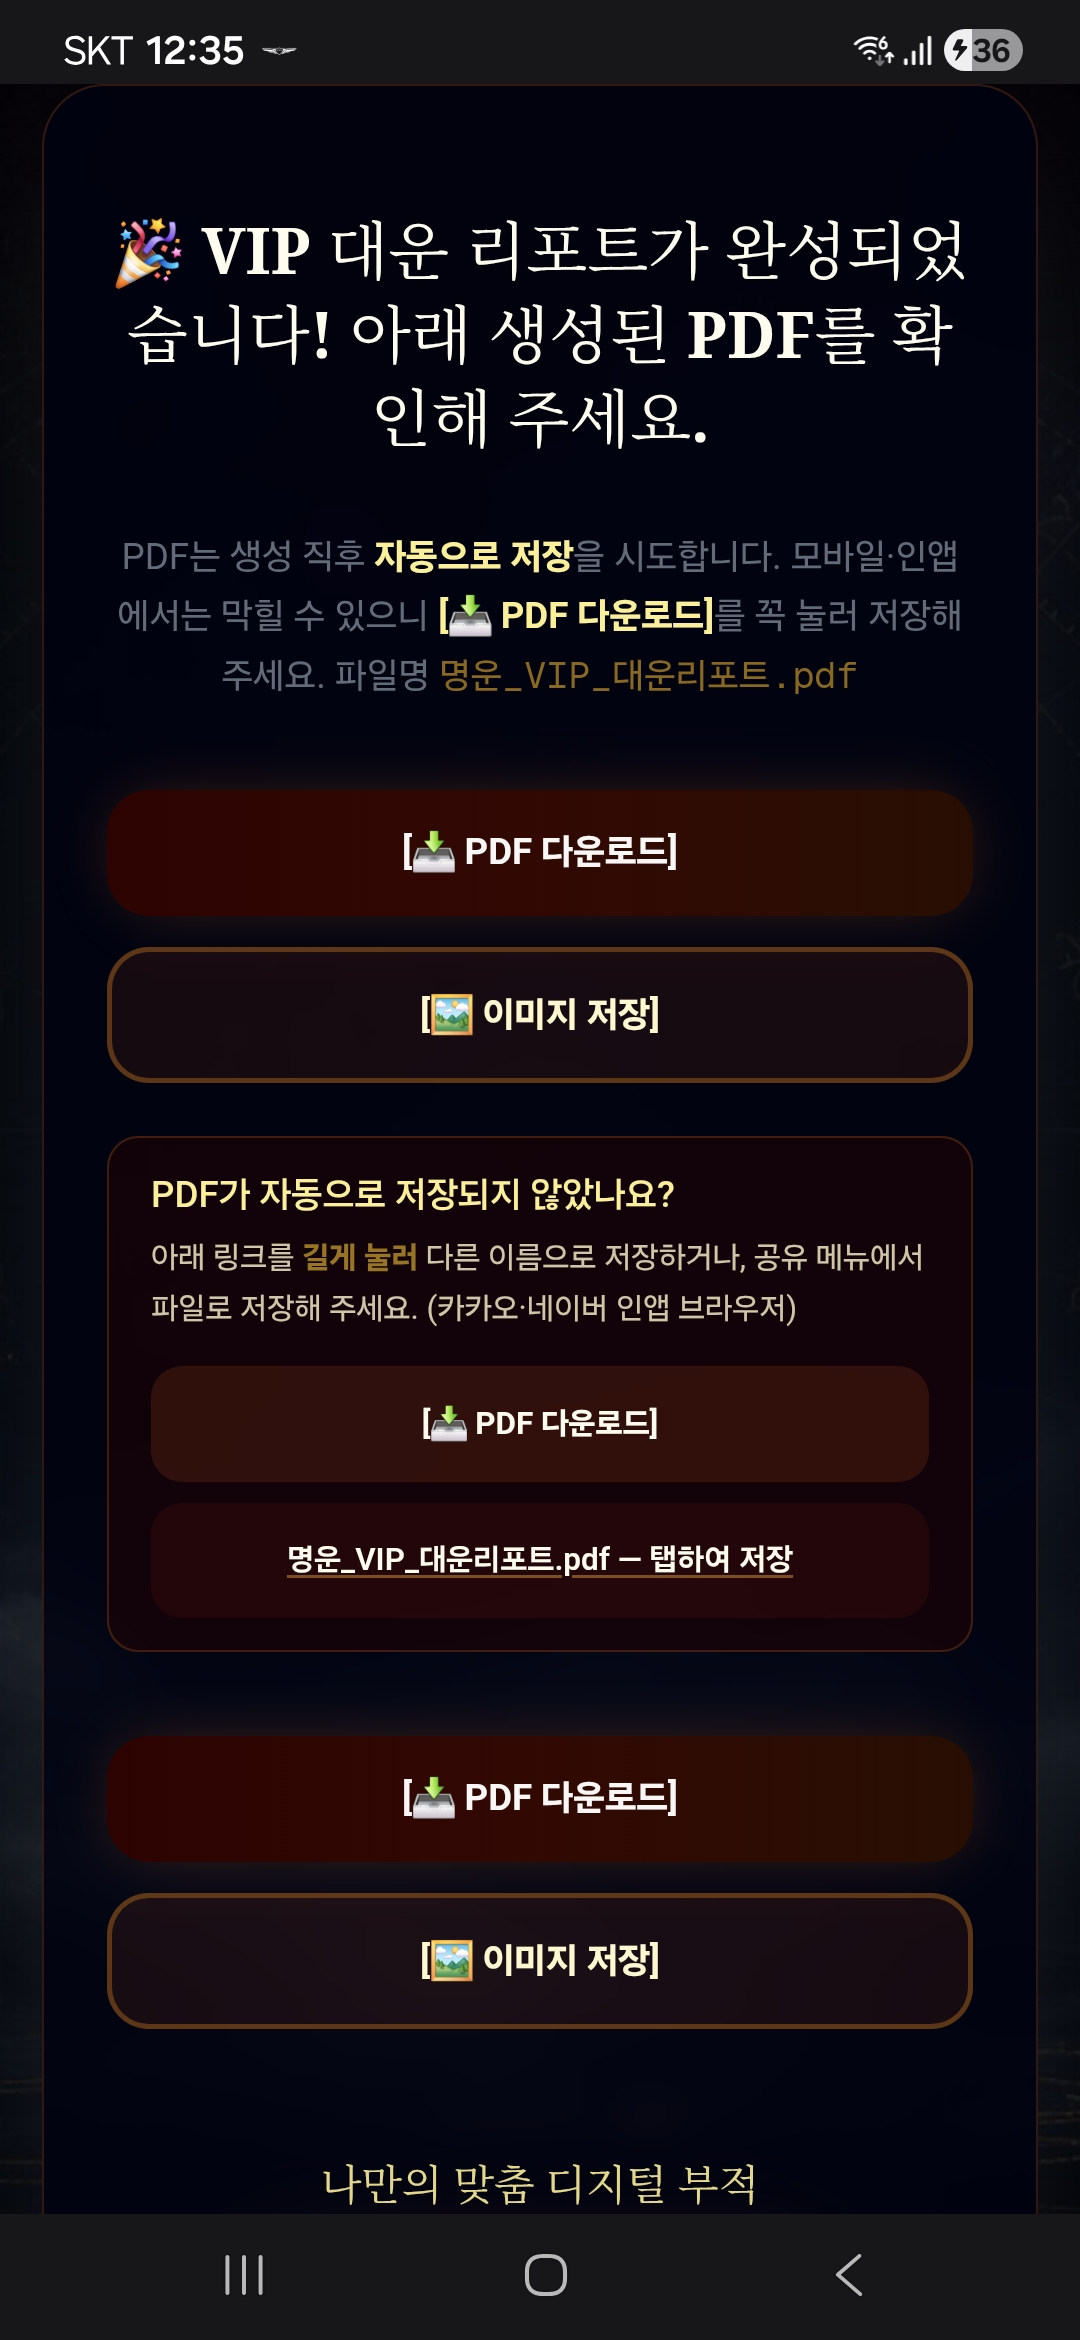
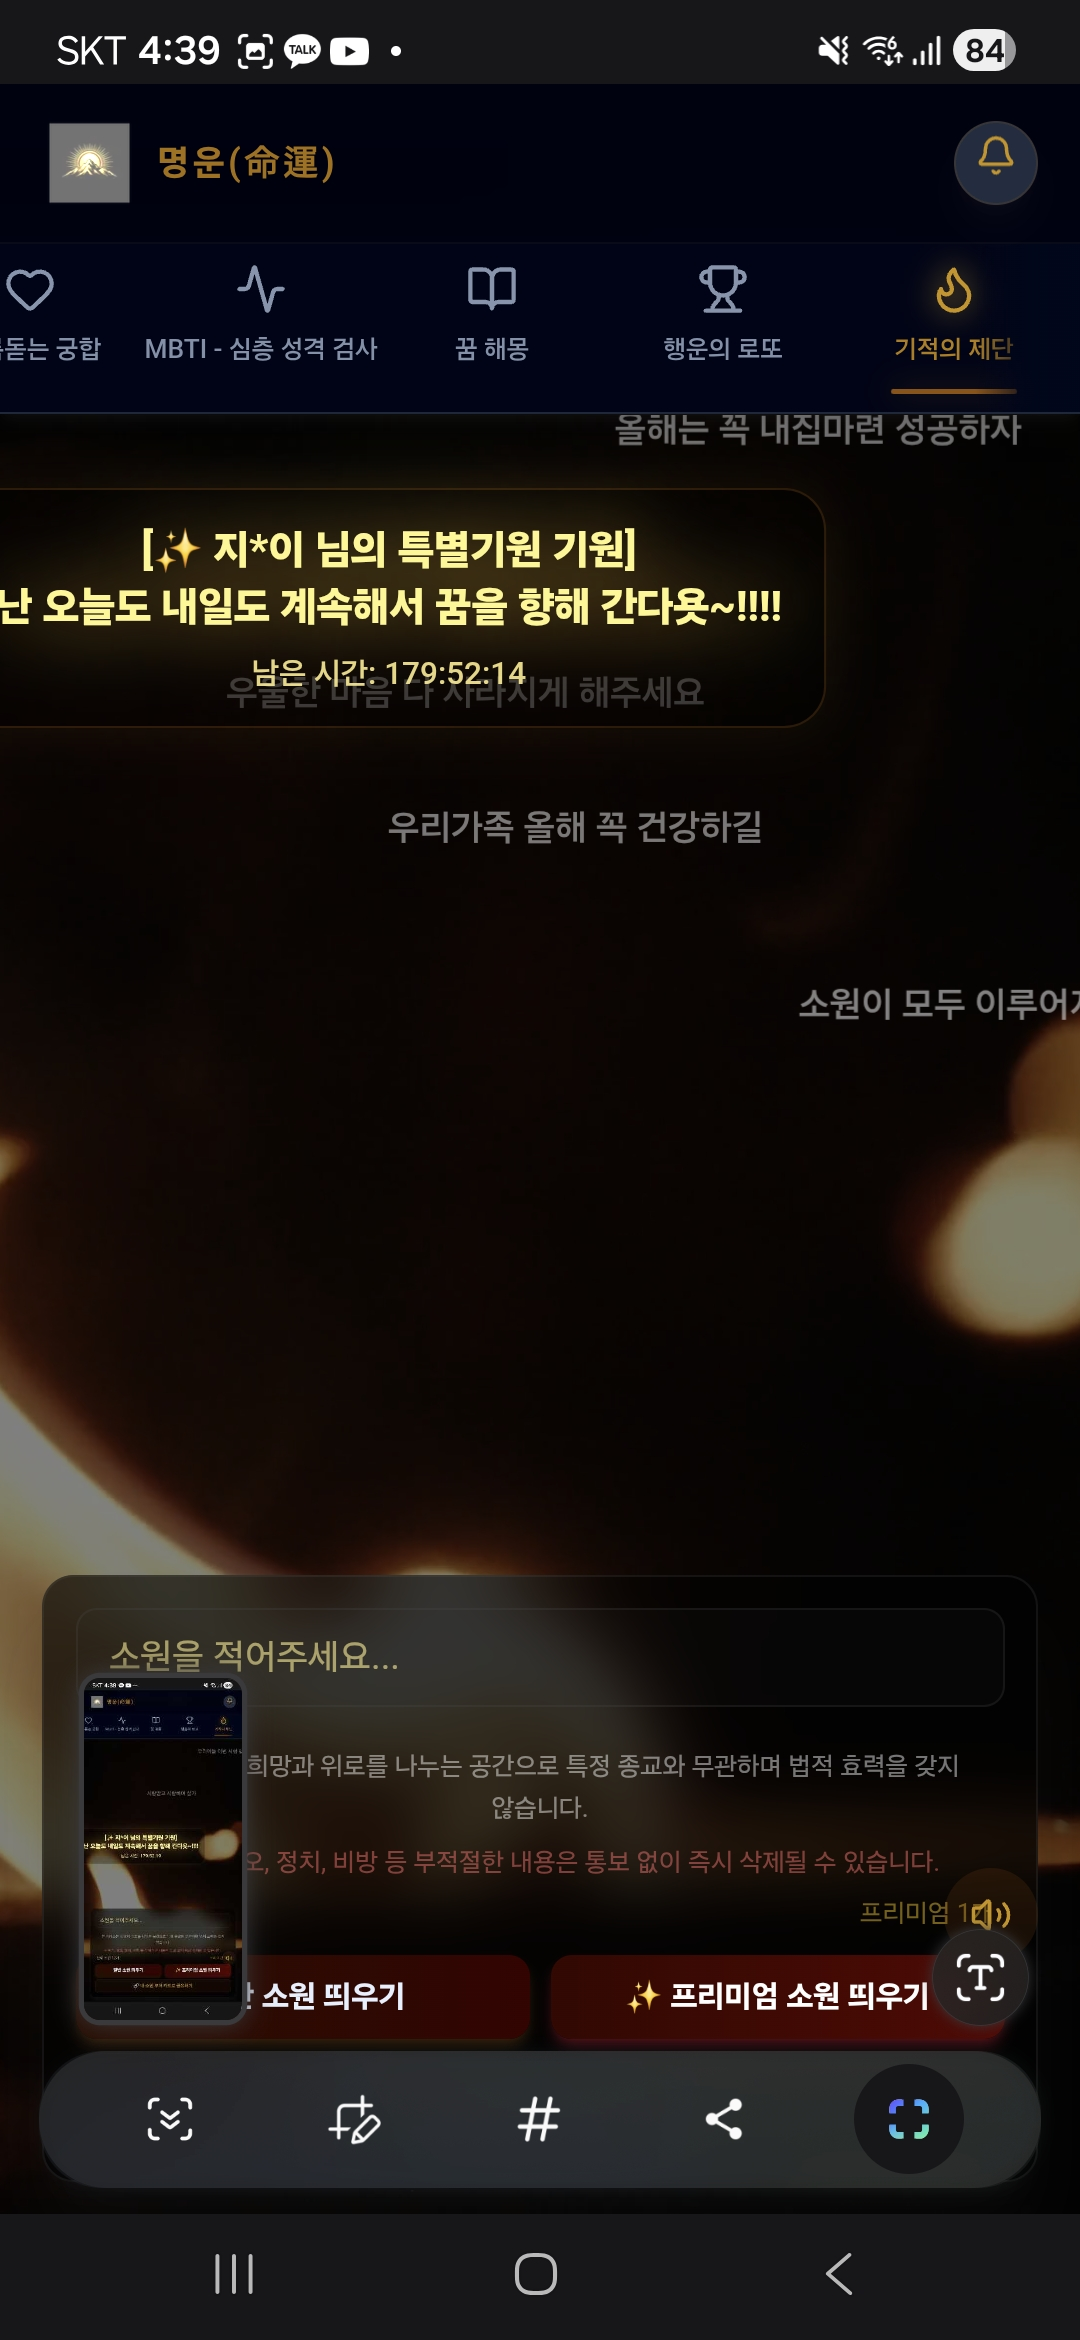
feat: 기적의 제단 푸터 수정

diff --git a/app/tools/page.tsx b/app/tools/page.tsx
@@ -1250,6 +1250,14 @@ function DreamTab({ isVisible, onNavigate }: { isVisible: boolean, onNavigate: (
   );
 }
 
+/** 제단 탭 하단 푸터 — GlobalSiteFooter와 동일 약관/사업자 문구 */
+const ALTAR_FOOTER_TERMS =
+  "제1조 (목적)\n본 약관은 서비스의 이용조건 및 절차, 이용자와 회사의 권리, 의무, 책임사항을 규정함을 목적으로 합니다.\n\n제2조 (서비스의 성격)\n본 서비스에서 제공하는 모든 결과는 통계적, 학술적 해석에 기반하며 절대적인 사실이나 미래를 보장하지 않습니다.\n\n제3조 (서비스 제공 시기)\n본 서비스에서 제공하는 모든 유료 서비스(디지털 콘텐츠)는 결제 완료 후 즉시 이용 가능합니다.";
+const ALTAR_FOOTER_PRIVACY =
+  "1. 수집하는 개인정보 항목\n회사는 회원가입 없이 서비스를 제공하며, 사주 분석을 위해 입력하신 생년월일, 성별, 이름 등은 서버에 영구 저장되지 않고 분석 즉시 폐기됩니다.\n\n2. 쿠키의 사용\n서비스 편의를 위해 기기 내부에 일부 설정(예: 프리미엄 해제 상태)이 임시 저장될 수 있습니다.";
+const ALTAR_FOOTER_REFUND =
+  "[디지털 콘텐츠 환불 규정 안내]\n\n본 서비스에서 제공되는 모든 유료 서비스는 '디지털 콘텐츠'에 해당하며, 관련 법령에 의거하여 다음과 같이 환불 정책을 운영합니다.\n\n1. 환불 기준 (청약철회)\n- 이용권을 결제하였으나 실제 서비스를 전혀 이용하지 않은 경우(결과 열람 전), 결제일로부터 7일 이내에 고객센터를 통해 100% 환불을 요청하실 수 있습니다.\n\n2. 시스템 오류 및 서비스 장애\n- 결제는 정상적으로 완료되었으나 시스템 오류로 인해 결과 화면을 전혀 열람하지 못한 경우, 고객센터 확인을 거쳐 즉시 100% 환불 또는 서비스 재제공 처리를 해드립니다.\n\n3. 환불 제한 사항\n- 전자상거래법 제17조 제2항 제5호에 따라, 소비자의 사용 또는 일부 소비로 재화 등의 가치가 현저히 감소한 경우(예: 운세/관상/번호 추출 결과를 이미 열람한 경우)에는 청약철회가 제한됩니다.";
+
 function AltarTab({ isVisible }: { isVisible: boolean }) {
   // 🚀 [추가] 촛불 애니메이션 및 사운드 상태 (기존 432Hz BGM과 충돌하지 않음)
   const [isCandleOn, setIsCandleOn] = useState(false);
@@ -1327,6 +1335,8 @@ function AltarTab({ isVisible }: { isVisible: boolean }) {
   const [premiumNameDisplay, setPremiumNameDisplay] = useState<PremiumNameDisplay>("anonymous");
   const [premiumNameInput, setPremiumNameInput] = useState("");
   const [premiumWishText, setPremiumWishText] = useState("");
+  const [altarFooterPolicy, setAltarFooterPolicy] = useState<"terms" | "privacy" | "refund" | null>(null);
+  const [altarFooterCompany, setAltarFooterCompany] = useState(false);
   const [countdownNow, setCountdownNow] = useState(Date.now());
   const audioRef = useRef<HTMLAudioElement>(null);
 
@@ -1820,6 +1830,26 @@ function AltarTab({ isVisible }: { isVisible: boolean }) {
     setPremiumWishText("");
     setPremiumNameInput("");
   };
+
+  const handleAltarFooterCopyrightDoubleClick = () => {
+    if (typeof window === "undefined") return;
+    if (localStorage.getItem("MASTER_ADMIN") === "true") {
+      if (confirm("현재 운영자 모드입니다. 종료할까요?")) {
+        localStorage.removeItem("MASTER_ADMIN");
+        alert("운영자 모드가 종료되었습니다.");
+        window.location.reload();
+      }
+      return;
+    }
+    const pwd = prompt("운영자 비밀번호를 입력하세요.");
+    if (pwd === "s1223534") {
+      localStorage.setItem("MASTER_ADMIN", "true");
+      alert("✨ 운영자 모드 활성화! 모든 유료 서비스가 프리패스됩니다.");
+      window.location.reload();
+    } else if (pwd !== null) {
+      alert("비밀번호가 일치하지 않습니다.");
+    }
+  };
   
   return (
     <div
@@ -1861,19 +1891,16 @@ function AltarTab({ isVisible }: { isVisible: boolean }) {
                 {floatingWishes.map((wish, i) => (
                   <div
                     key={`wish-${i}`}
-                    className="absolute"
+                    className="absolute max-w-[45vw]"
                     style={{
-                      /* 화면 양끝 15%~85% 사이에서만 나타나도록 제한 (짤림 방지) */
                       left: `${15 + ((i * 17 + 5) % 70)}%`,
                       top: `${30 + (i * 11 % 41)}%`,
                       transform: "translateX(-50%)",
                       animation: `float-wish-center ${10 + (i % 9)}s ease-out infinite`,
                       animationDelay: `${(i * 0.7) % 8}s`,
-                      width: "max-content",
-                      maxWidth: "85vw", /* 모바일/PC 모두 화면 폭의 85%를 넘지 않음 */
                     }}
                   >
-                    <p style={{ whiteSpace: "pre-wrap", wordBreak: "keep-all", textAlign: "center" }} className="text-sm font-medium text-white/60 px-3">
+                    <p className="mx-auto max-w-[45vw] truncate text-center text-sm font-medium text-white/60 px-1">
                       {wish}
                     </p>
                   </div>
@@ -1893,25 +1920,33 @@ function AltarTab({ isVisible }: { isVisible: boolean }) {
                   return (
                     <div
                       key={pw.id}
-                      className="absolute"
+                      className="absolute max-w-[45vw]"
                       style={{
                         left: `${leftPct}%`,
                         animation: `float-up-premium ${duration}s linear infinite`,
                         animationDelay: delay,
-                        width: "max-content",
-                        maxWidth: "90vw",
                       }}
                     >
-                      <div className="flex flex-col items-center justify-center bg-black/30 backdrop-blur-sm px-4 py-3 rounded-2xl border border-yellow-500/30 shadow-[0_0_20px_rgba(234,179,8,0.15)]">
-                        <p className={
+                      <div className="mx-auto flex max-w-[45vw] flex-col items-center justify-center overflow-hidden bg-black/30 px-4 py-3 rounded-2xl border border-yellow-500/30 shadow-[0_0_20px_rgba(234,179,8,0.15)] backdrop-blur-sm">
+                        <p
+                          className={`w-full max-w-[45vw] truncate text-center leading-snug ${
                             isTenDays
-                              ? "text-base sm:text-xl font-extrabold text-yellow-200 drop-shadow-[0_0_15px_rgba(251,191,36,0.8)] text-center break-keep leading-snug whitespace-pre-wrap"
-                              : "text-sm sm:text-lg font-bold text-yellow-300 drop-shadow-[0_0_10px_rgba(250,204,21,0.6)] text-center break-keep leading-snug whitespace-pre-wrap"
-                          }
+                              ? "text-base sm:text-xl font-extrabold text-yellow-200 drop-shadow-[0_0_15px_rgba(251,191,36,0.8)] break-keep"
+                              : "text-sm sm:text-lg font-bold text-yellow-300 drop-shadow-[0_0_10px_rgba(250,204,21,0.6)] break-keep"
+                          }`}
                         >
-                          {pw.badge}<br/>{pw.content}
+                          {pw.badge}
                         </p>
-                        <p className={isTenDays ? "mt-1.5 text-xs font-medium text-amber-200/90" : "mt-1.5 text-[11px] text-yellow-400/80"}>
+                        <p
+                          className={`mt-1 w-full max-w-[45vw] truncate text-center leading-snug ${
+                            isTenDays
+                              ? "text-base sm:text-xl font-extrabold text-yellow-200 drop-shadow-[0_0_15px_rgba(251,191,36,0.8)] break-keep"
+                              : "text-sm sm:text-lg font-bold text-yellow-300 drop-shadow-[0_0_10px_rgba(250,204,21,0.6)] break-keep"
+                          }`}
+                        >
+                          {pw.content}
+                        </p>
+                        <p className={`w-full max-w-[45vw] truncate text-center ${isTenDays ? "mt-1.5 text-xs font-medium text-amber-200/90" : "mt-1.5 text-[11px] text-yellow-400/80"}`}>
                           남은 시간: {formatCountdown(remaining)}
                         </p>
                       </div>
@@ -1933,14 +1968,6 @@ function AltarTab({ isVisible }: { isVisible: boolean }) {
               rows={1}
               className="w-full resize-none rounded-lg border border-white/20 bg-white/10 px-3 py-2 text-sm text-amber-50 placeholder-amber-200/60 focus:border-yellow-500/60 focus:outline-none focus:ring-1 focus:ring-yellow-500/40"
             />
-            <div className="mt-2 space-y-1 px-0.5 text-center">
-              <p className="text-[10px] leading-relaxed text-white/45 break-keep">
-                본 서비스는 희망과 위로를 나누는 공간으로 특정 종교와 무관하며 법적 효력을 갖지 않습니다.
-              </p>
-              <p className="text-[10px] leading-relaxed text-red-400/80 break-keep animate-pulse">
-                ※ 욕설, 혐오, 정치, 비방 등 부적절한 내용은 통보 없이 즉시 삭제될 수 있습니다.
-              </p>
-            </div>
             <div className="mt-1 flex items-center justify-between text-[10px] px-1">
               <span className="text-amber-100/70">전체 소원 {activeWishCount}개</span>
               <span className="text-yellow-300/80">프리미엄 {activePremiumCount}개</span>
@@ -1961,6 +1988,104 @@ function AltarTab({ isVisible }: { isVisible: boolean }) {
             </button>
           </div>
         </div>
+
+        <footer className="relative z-10 mt-4 w-full shrink-0 border-t border-white/10 bg-slate-950 pb-[env(safe-area-inset-bottom,0px)] text-slate-300 pointer-events-auto">
+          <div className="mx-auto max-w-5xl px-4 pb-10 pt-6 sm:px-6">
+            <p className="text-center text-[10px] leading-relaxed text-white/45">
+              본 서비스는 희망과 위로를 나누는 공간으로 특정 종교와 무관하며 법적 효력을 갖지 않습니다.
+            </p>
+            <p className="mt-3 text-center text-[10px] leading-relaxed text-red-400/80 animate-pulse break-keep">
+              ※ 욕설, 혐오, 정치, 비방 등 부적절한 내용은 통보 없이 즉시 삭제될 수 있습니다.
+            </p>
+
+            <div className="mt-6 flex flex-wrap justify-center gap-x-3 gap-y-2 text-[11px] font-medium text-white/55">
+              <button type="button" onClick={() => setAltarFooterPolicy("terms")} className="transition-colors hover:text-white">
+                이용약관
+              </button>
+              <span aria-hidden>|</span>
+              <button type="button" onClick={() => setAltarFooterPolicy("privacy")} className="transition-colors hover:text-white">
+                개인정보처리방침
+              </button>
+              <span aria-hidden>|</span>
+              <button type="button" onClick={() => setAltarFooterPolicy("refund")} className="transition-colors hover:text-white">
+                환불정책
+              </button>
+              <span aria-hidden>|</span>
+              <button
+                type="button"
+                onClick={() => setAltarFooterCompany((v) => !v)}
+                className="flex items-center gap-1 transition-colors hover:text-white"
+              >
+                사업자 정보 {altarFooterCompany ? "▲" : "▼"}
+              </button>
+            </div>
+
+            {altarFooterCompany ? (
+              <div className="mx-auto mt-6 max-w-lg space-y-1.5 border-t border-white/10 pt-6 text-[10px] leading-relaxed text-white/40">
+                <p className="font-bold text-white/55">와이엠 스튜디오 (YM Studio)</p>
+                <p>대표자: 손용민 | 사업자등록번호: 510-21-21827</p>
+                <p>주소: 충청남도 아산시 둔포면 운교길 129번길 14-71</p>
+                <p>고객센터: 0507-1385-9994 | 이메일: [email redacted]</p>
+                <p>통신판매업신고번호: 제 2026-충남아산-0479 호</p>
+              </div>
+            ) : null}
+
+            <p
+              onDoubleClick={handleAltarFooterCopyrightDoubleClick}
+              className="mt-8 cursor-default select-none text-center text-[10px] text-white/25"
+            >
+              © {new Date().getFullYear()} 명운(命運). All rights reserved.
+            </p>
+          </div>
+        </footer>
+
+        {altarFooterPolicy ? (
+          <div
+            className="fixed inset-0 z-[100] flex items-center justify-center bg-black/80 p-4 backdrop-blur-sm"
+            onClick={() => setAltarFooterPolicy(null)}
+            role="dialog"
+            aria-modal="true"
+            aria-labelledby="altar-policy-title"
+          >
+            <div
+              className="flex max-h-[85vh] w-full max-w-md flex-col rounded-2xl border border-white/20 bg-slate-900 p-6 text-left shadow-2xl"
+              onClick={(e) => e.stopPropagation()}
+            >
+              <h3
+                id="altar-policy-title"
+                className="mb-4 flex shrink-0 items-center justify-between border-b border-white/10 pb-3 text-lg font-bold text-yellow-400"
+              >
+                <span>
+                  {altarFooterPolicy === "terms"
+                    ? "이용약관"
+                    : altarFooterPolicy === "privacy"
+                      ? "개인정보처리방침"
+                      : "환불정책"}
+                </span>
+                <button
+                  type="button"
+                  onClick={() => setAltarFooterPolicy(null)}
+                  className="text-2xl font-light text-white/50 hover:text-white"
+                  aria-label="닫기"
+                >
+                  ×
+                </button>
+              </h3>
+              <div className="flex-1 overflow-y-auto pr-2 text-xs leading-relaxed text-white/80 whitespace-pre-wrap">
+                {altarFooterPolicy === "terms" && ALTAR_FOOTER_TERMS}
+                {altarFooterPolicy === "privacy" && ALTAR_FOOTER_PRIVACY}
+                {altarFooterPolicy === "refund" && ALTAR_FOOTER_REFUND}
+              </div>
+              <button
+                type="button"
+                className="mt-6 w-full rounded-xl bg-white/10 py-3 font-medium text-white transition-colors hover:bg-white/20"
+                onClick={() => setAltarFooterPolicy(null)}
+              >
+                확인하고 닫기
+              </button>
+            </div>
+          </div>
+        ) : null}
 
         {showPremiumModal && (
           <div className="fixed inset-0 z-50 flex items-center justify-center bg-black/60 backdrop-blur-sm p-4" onClick={() => handlePremiumCancel()}>